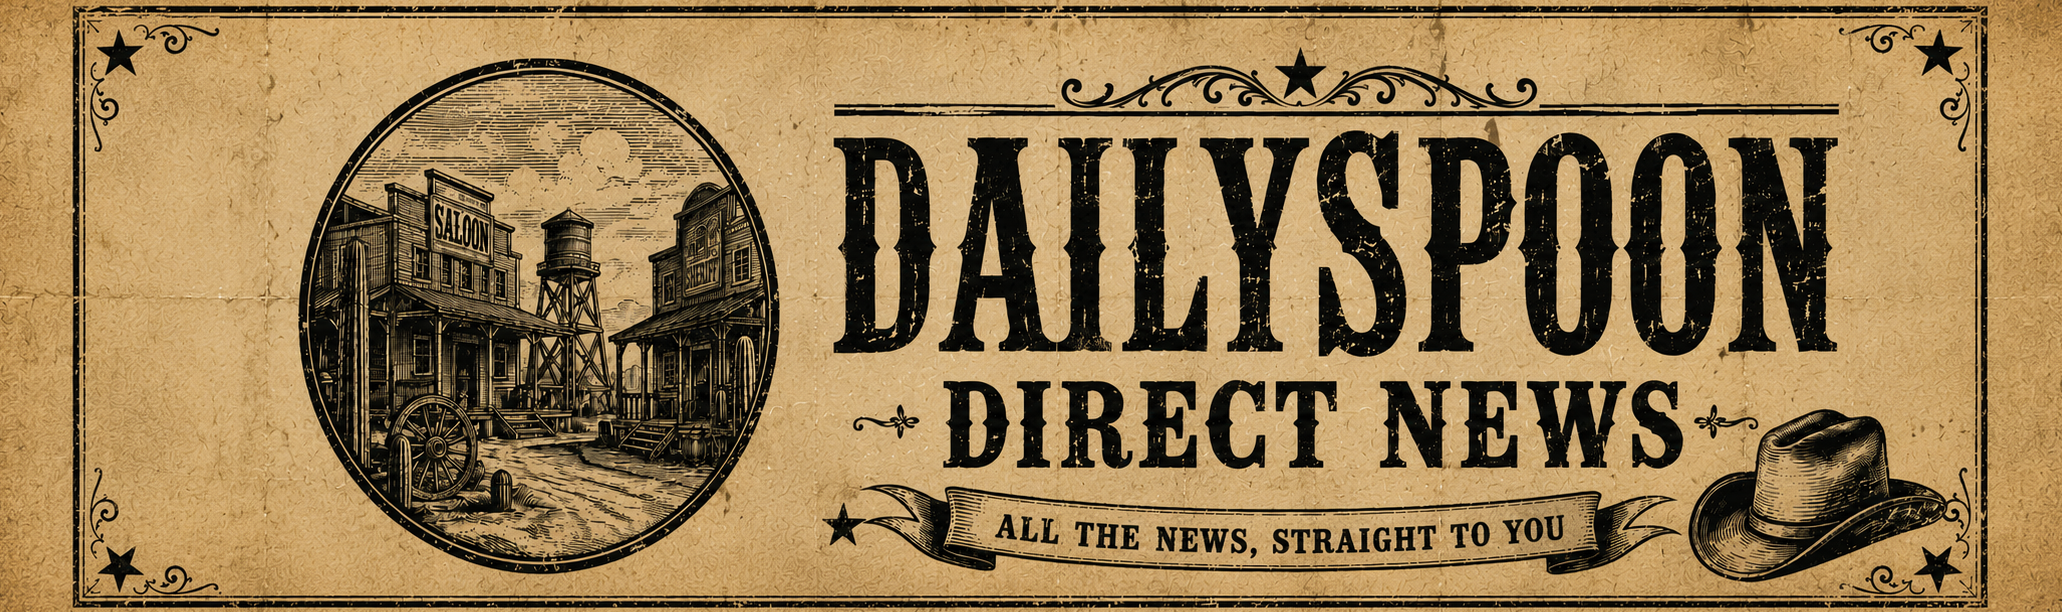
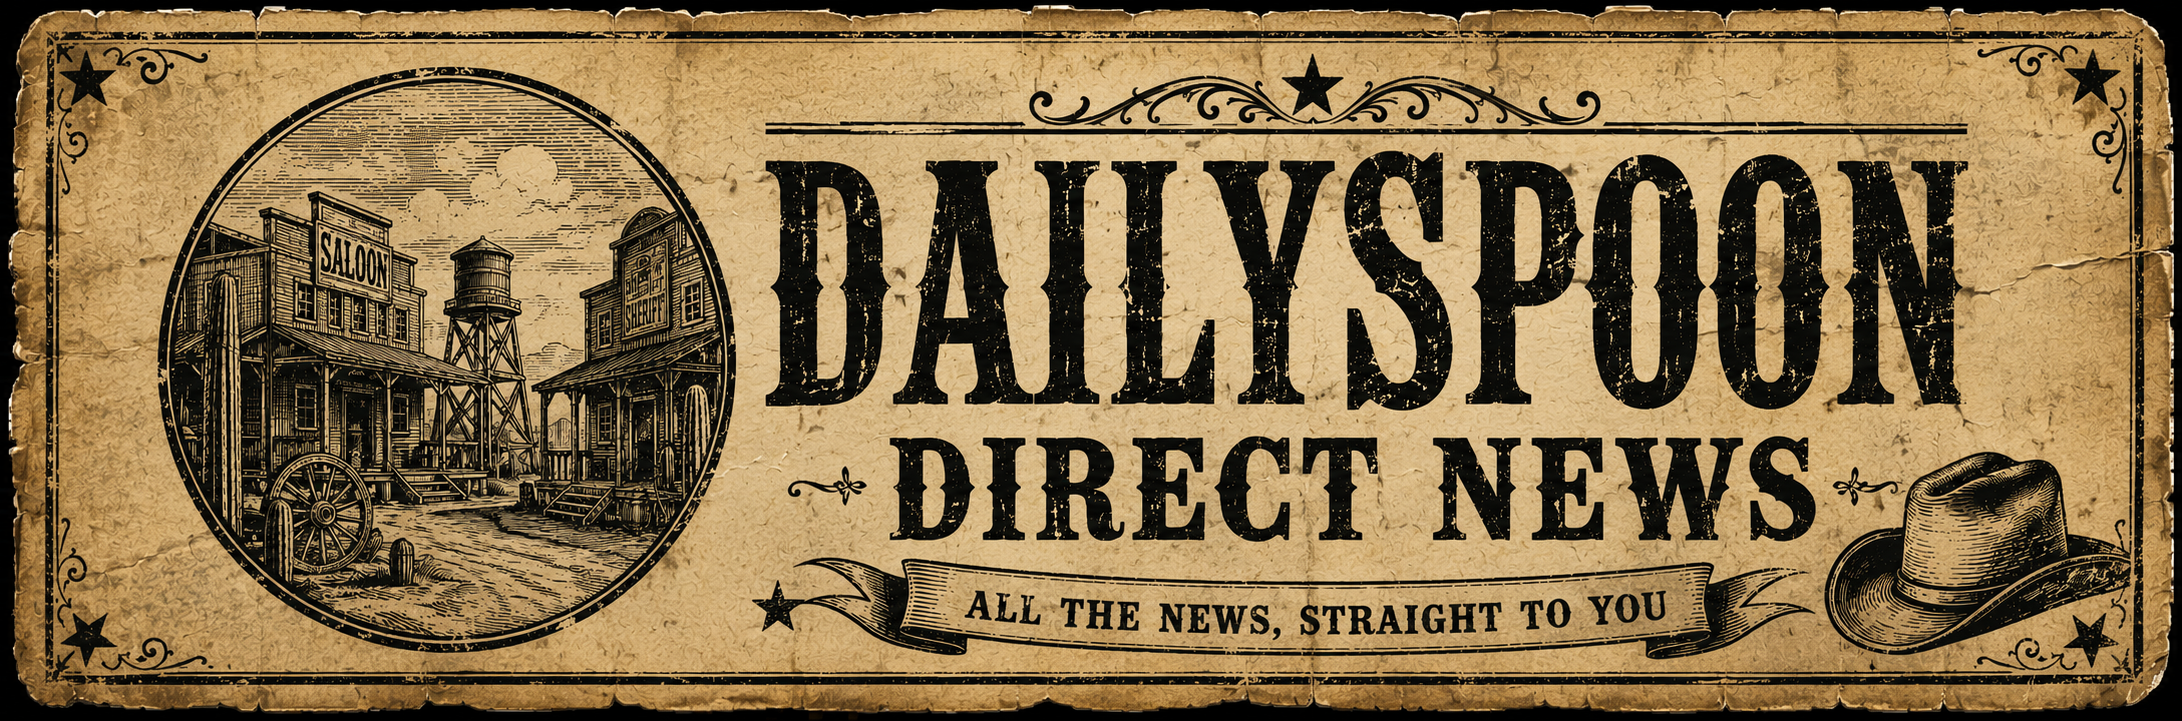
Update DailySpoon

diff --git a/src/lib/telegramNotify.ts b/src/lib/telegramNotify.ts
@@ -20,28 +20,46 @@ function escapeHtml(s: string): string {
   return s.replace(/&/g, "&amp;").replace(/</g, "&lt;").replace(/>/g, "&gt;");
 }
 
+// Échappement spécifique à l'intérieur d'un attribut HTML entre guillemets
+// doubles (href="...") — seuls & et " doivent être neutralisés ici (pas
+// < > : ce ne sont pas des délimiteurs d'attribut), sinon un & littéral dans
+// l'URL (query string) ou un " cassent l'attribut aux yeux du parseur
+// Telegram.
+function escapeHtmlAttr(s: string): string {
+  return s.replace(/&/g, "&amp;").replace(/"/g, "&quot;");
+}
+
 export type TelegramNotifyItem = {
   title: string;
   excerpt?: string | null;
   link: string;
+  /** Nom du flux source (ex. "Korben") — affiché comme texte cliquable vers
+   *  l'article, à la place de l'URL brute en fin de légende. */
+  source: string;
 };
 
 /**
  * Construit la légende HTML envoyée avec la photo, dans le même format que
  * le workflow n8n "👼🏾 News - Telegram" pris comme référence :
- * <blockquote>⚠ titre</blockquote> puis un extrait, puis le lien. Exporté
- * séparément de l'envoi pour être réutilisé par le bouton de test manuel
+ * <blockquote>⚠ titre</blockquote> puis un extrait, puis un lien cliquable
+ * (le nom du flux, pas l'URL brute) vers l'article. Exporté séparément de
+ * l'envoi pour être réutilisé par le bouton de test manuel
  * (/api/admin/settings/test-telegram-notify), qui doit produire EXACTEMENT
  * le même rendu que l'envoi automatique.
  */
 export function buildTelegramCaption(item: TelegramNotifyItem): string {
   const title = escapeHtml(item.title || "");
+  const source = escapeHtml(item.source || "Lire l'article");
+  const href = escapeHtmlAttr(item.link);
+  // Budget calculé sur le texte VISIBLE (Telegram compte le texte rendu, pas
+  // la balise <a href> autour) — le nom du flux, court, remplace l'URL brute
+  // qui pesait potentiellement bien plus lourd dans l'ancien calcul.
   let excerpt = escapeHtml((item.excerpt || "").trim());
-  const budget = MAX_CAPTION_CHARS - title.length - item.link.length - 40;
+  const budget = MAX_CAPTION_CHARS - title.length - source.length - 40;
   if (excerpt.length > Math.max(0, budget)) {
     excerpt = excerpt.slice(0, Math.max(0, budget)).trim() + "…";
   }
-  return `<blockquote>⚠ ${title}</blockquote>\n${excerpt}\n\n${item.link}`;
+  return `<blockquote>⚠ ${title}</blockquote>\n${excerpt}\n\n<a href="${href}">${source}</a>`;
 }
 
 export type TelegramSendResult = { ok: boolean; message: string };

diff --git a/src/app/api/admin/settings/test-telegram-notify/route.ts b/src/app/api/admin/settings/test-telegram-notify/route.ts
@@ -46,7 +46,8 @@ export async function POST(req: NextRequest) {
     const caption = buildTelegramCaption({
       title: latest.sourceTitle,
       excerpt: latest.sourceExcerpt,
-      link: latest.sourceUrl
+      link: latest.sourceUrl,
+      source: latest.feedTitle
     });
     const sendResult = await postTelegramPhoto(telegramBotToken, telegramChatId, caption);
     results.push({ label: feed.label, ok: sendResult.ok, message: sendResult.message });

diff --git a/src/lib/generateEdition.ts b/src/lib/generateEdition.ts
@@ -240,7 +240,8 @@ export async function ingestRawItems(rawItems: RawItem[], editionId: string | nu
       await sendTelegramNotification({
         title: item.sourceTitle,
         excerpt: item.sourceExcerpt,
-        link: item.sourceUrl
+        link: item.sourceUrl,
+        source: item.feedTitle
       });
     }
   }